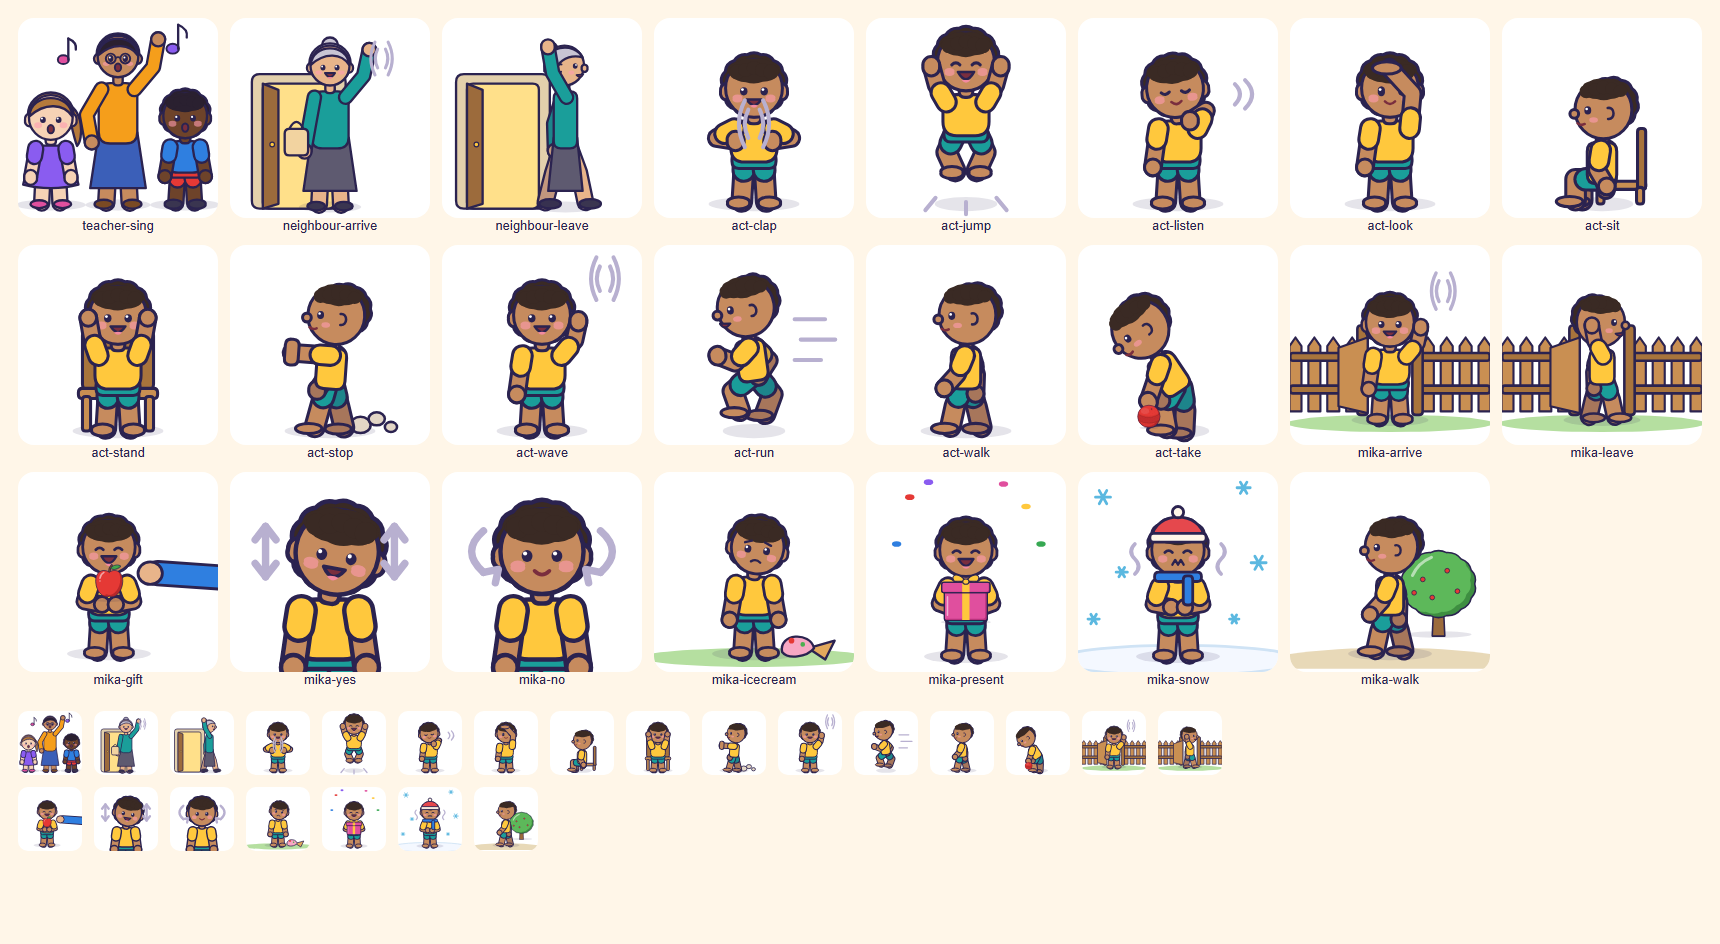
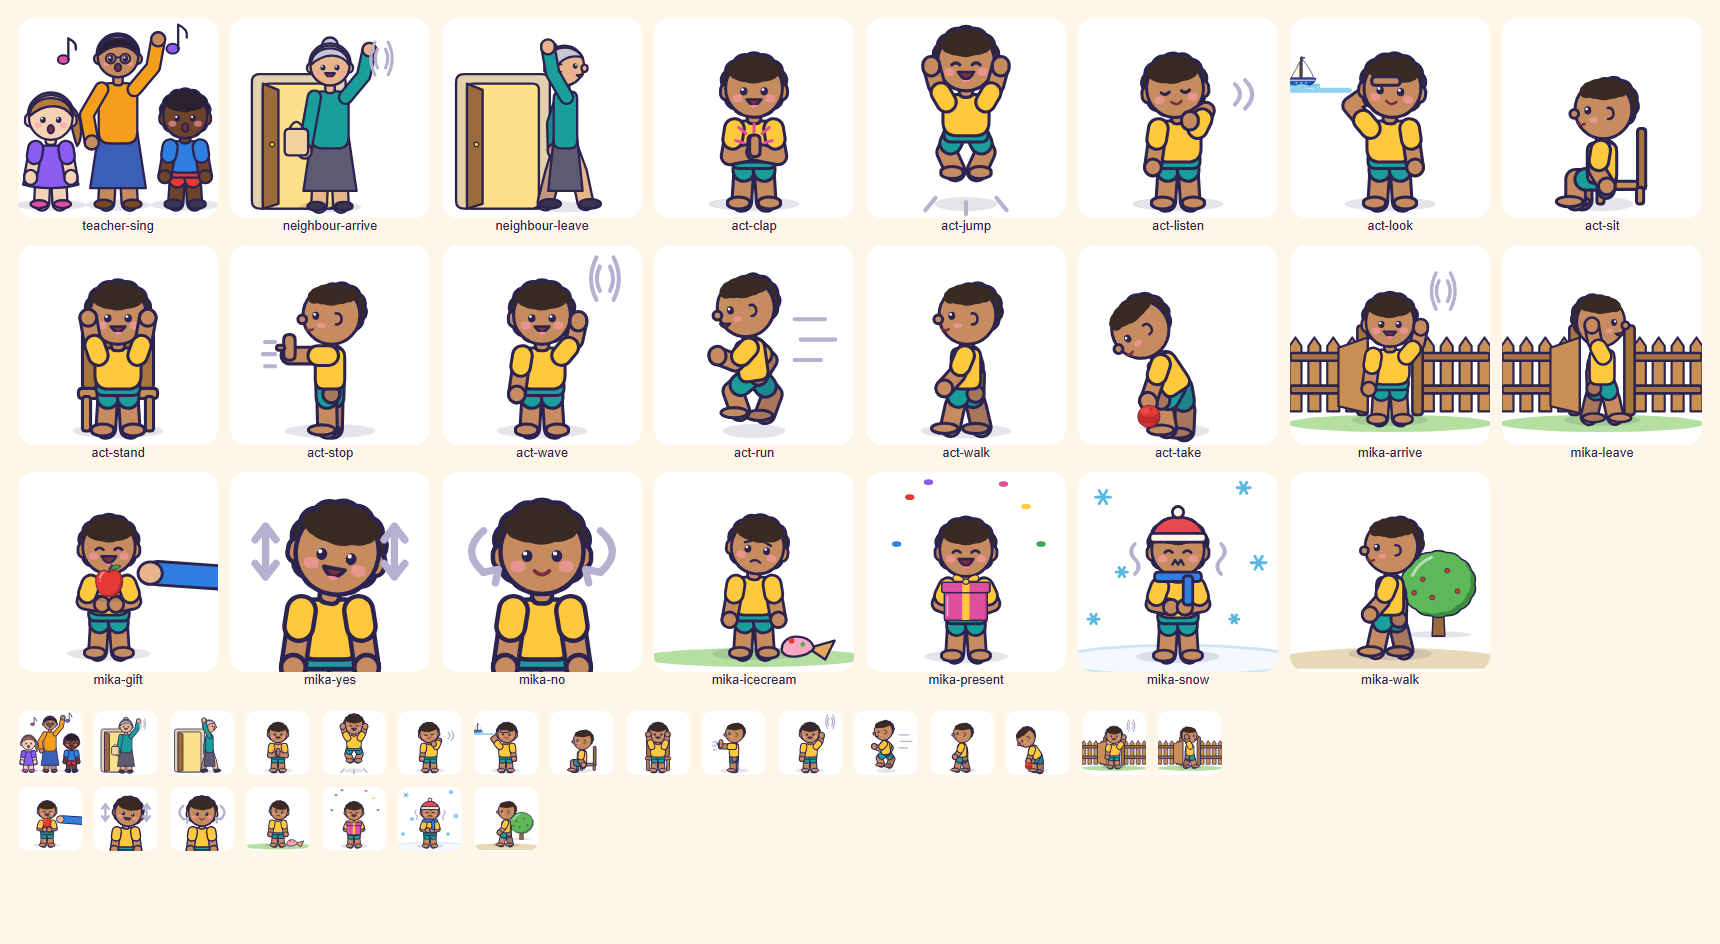
Languages people: act-clap (two open palms meeting in front of the chest, clap marks, the face clear), act-look (a hand flat as a visor over the brows, both eyes looking to a boat far off, the head turned), act-stop (standing still and upright, feet together, one arm straight out with the palm up) r

diff --git a/tools/make_language_people.py b/tools/make_language_people.py
@@ -389,7 +389,7 @@ def face(sp, r, hc, expr):
         out += [L('M %s %s Q %s %s %s %s' % (f(sx * ex - er * 1.1), f(ey), f(sx * ex), f(ey + er * 1.1 * (1 if expr == 'closed' else -1)),
                                              f(sx * ex + er * 1.1), f(ey)), INK, 3) for sx in (-1, 1)]
     else:
-        lx = {'look': er * 0.45, 'sing': 0}.get(expr, 0)
+        lx = {'look': er * 0.45, 'lookleft': -er * 0.5, 'sing': 0}.get(expr, 0)
         for sx in (-1, 1):
             out.append(E(sx * ex + lx, ey, er, er * 1.15, INK, 0))
             out.append('<circle cx="%s" cy="%s" r="%s" fill="%s"/>' % (f(sx * ex + lx - er * 0.35), f(ey - er * 0.4), f(er * 0.38), WHITE))
@@ -410,7 +410,7 @@ def face(sp, r, hc, expr):
 
 
 def posed(sp, view='front', arms=((8, 0), (8, 0)), legs=((3, 0), (3, 0)), lift=0, expr='smile', tilt=0, lean=0, flat=None,
-          props_back=(), props_front=(), reach=None, visor=None):
+          props_back=(), props_front=(), reach=None, visor=None, behind=(), palms=False):
     """A person in a pose. arms/legs: (shoulder or hip angle, elbow or knee bend) for (left, right) in the front view or
     (far, near) in the side view; lift raises the body (a jump); lean tilts the body forward (side view)."""
     H, r, hc, body, sh, hip, tw, lw, aw, arm = ch.geometry(sp)
@@ -449,7 +449,9 @@ def posed(sp, view='front', arms=((8, 0), (8, 0)), legs=((3, 0), (3, 0)), lift=0
     def draw_arm(i, dim):
         (a1, a2), (x0, y0), s = arms[i], shoulders[i], sides[i]
         k = (reach or {}).get(i, 1.0)
-        pts = chain(x0, y0, [(ua * k, a1), (fa * k, a2)], s, view)
+        ku, kf = k if isinstance(k, tuple) else (k, k)
+        k = ku
+        pts = chain(x0, y0, [(ua * ku, a1), (fa * kf, a2)], s, view)
         long_sleeve = sp.get('adult') and not sp.get('vest')
         o = limb(pts, dimc(top if long_sleeve else skin, dim), aw)
         if not long_sleeve:
@@ -457,16 +459,21 @@ def posed(sp, view='front', arms=((8, 0), (8, 0)), legs=((3, 0), (3, 0)), lift=0
             mid = (pts[0][0] + (pts[1][0] - pts[0][0]) * t, pts[0][1] + (pts[1][1] - pts[0][1]) * t)
             o += limb([pts[0], mid], dimc(top, dim), aw + 3)
         hx, hy = pts[-1]
-        if visor is not None and visor == i:
-            o.append(E(hx - aw * 0.2, hy, aw * 1.05, aw * 0.45, skin))
-        elif flat is not None and flat == i:
-            o.append(RR(hx - aw * 0.5, hy - aw * 1.0, aw, aw * 1.9, aw * 0.45, skin))
+        hd = []
+        if visor is not None and visor == i:     # a hand held flat over the brow, fingers pointing across
+            hd.append(RR((hx - aw * 1.05) if view == 'front' else hx - aw * 2.0, hy - aw * 0.32, aw * 2.1, aw * 0.64, aw * 0.3, skin))
+        elif flat is not None and flat == i:      # a palm held up, fingers up (stop)
+            hd.append(RR(hx - aw * 0.42, hy - aw * 1.55, aw * 0.84, aw * 1.9, aw * 0.4, skin))
+            hd.append(RR(hx - aw * 0.95, hy - aw * 0.75, aw * 0.6, aw * 0.36, aw * 0.18, skin))
+        elif palms:                               # an open palm seen from the side, fingers up (clap)
+            hd.append(RR(hx - aw * 0.38, hy - aw * 1.25, aw * 0.76, aw * 1.6, aw * 0.36, skin))
         else:
-            o.append(E(hx, hy, aw * 0.62, aw * 0.62, dimc(skin, dim)))
-        return o, (hx, hy)
+            hd.append(E(hx, hy, aw * 0.62, aw * 0.62, dimc(skin, dim)))
+        return o + hd, (hx, hy), o, hd
 
     hands = {}
     far_arm = draw_arm(0, True)[0] if view == 'side' else []
+    late = []
     if view == 'side':
         out += draw_leg(0, True)
     for i in ((0, 1) if view == 'front' else (1,)):
@@ -489,10 +496,17 @@ def posed(sp, view='front', arms=((8, 0), (8, 0)), legs=((3, 0), (3, 0)), lift=0
     else:
         w0 = tw if view == 'front' else tw * 0.64
         out.append(RR(-w0 / 2, sh, w0, hip - sh + body * 0.05, w0 * 0.3, top))
+    for i in behind:      # an arm that goes behind the head: the arm first, its hand after the head
+        _, hands[i], arm_only, hand_only = draw_arm(i, False)
+        out += arm_only
+        late += hand_only
     out += head_block(sp, expr, view, tilt)
     for i in ((0, 1) if view == 'front' else (1,)):
-        o, hands[i] = draw_arm(i, False)
+        if i in behind:
+            continue
+        o, hands[i], _, _ = draw_arm(i, False)
         out += o
+    out += late
     out.append('</g>')
     out += list(props_front)
     out.append('</g>')
@@ -543,7 +557,11 @@ def act(name):
     sp = MIKA
     H, r, hc, body, sh, hip, tw, lw, aw, arm = ch.geometry(sp)
     if name == 'clap':
-        parts = posed(sp, arms=((62, -142), (62, -142)), expr='happy') + motion(0, sh + aw * 0.2, 14)
+        parts = posed(sp, arms=((10, -110), (10, -110)), reach={0: (1.4, 1.25), 1: (1.4, 1.25)}, palms=True, expr='happy')
+        top_y = -51 - aw * 1.3
+        parts += [L('M 0 %s L 0 %s M -8 %s L -15 %s M 8 %s L 15 %s M -10 %s L -18 %s M 10 %s L 18 %s'
+                    % (f(top_y - 3), f(top_y - 10), f(top_y - 1), f(top_y - 7), f(top_y - 1), f(top_y - 7),
+                       f(top_y + 8), f(top_y + 6), f(top_y + 8), f(top_y + 6)), '#E04F9E', 3)]
     elif name == 'jump':
         parts = posed(sp, arms=((150, 15), (150, 15)), legs=((25, -50), (25, -50)), lift=26, expr='laugh')
         parts += [L('M -30 -6 L -40 6 M 0 -2 L 0 10 M 30 -6 L 40 6', '#B8B0D0', 4)]
@@ -551,7 +569,9 @@ def act(name):
         parts = posed(sp, arms=((8, 0), (155, 148)), expr='closed', tilt=-6)
         parts += [L('M 56 %s q 10 10 0 20 M 66 %s q 14 14 0 28' % (f(hc - 4), f(hc - 8)), '#B8B0D0', 4)]
     elif name == 'look':
-        parts = posed(sp, arms=((8, 0), (175, 48)), expr='look', tilt=0, reach={1: 1.78}, visor=1)
+        boat = '<g transform="translate(-108 -150) scale(0.16)">%s</g>' % prefixed(m.boat('blue').parts, 'bt')
+        sea = ['<path d="M -130 -112 L -40 -112" stroke="#8FD3F4" stroke-width="5"/>']
+        parts = sea + [boat] + posed(sp, arms=((140, 95), (8, 0)), expr='lookleft', tilt=5, reach={0: (1.5, 2.22)}, visor=0, behind=(0,))
     elif name == 'sit':
         seat = hip + (-hip) * 0.5
         parts = posed(sp, view='side', arms=((10, -20), (10, -40)), legs=((90, -90), (90, -90)), lift=-(-hip) * 0.5 + lw * 0.1,
@@ -559,7 +579,9 @@ def act(name):
     elif name == 'stand':
         parts = posed(sp, arms=((160, 10), (160, 10)), expr='happy', props_back=front_chair(-38, 70))
     elif name == 'stop':
-        parts = posed(sp, view='side', arms=((20, 10), (90, 0)), legs=((-14, 0), (16, 0)), flat=1, lean=4, props_back=dust(30, -6))
+        parts = posed(sp, view='side', arms=((4, 0), (90, 0)), legs=((1, 0), (-1, 0)), flat=1, expr='smile')
+        px = -aw * 0.1 - arm * 1.02
+        parts += [L('M %s %s l -10 0 M %s %s l -12 0 M %s %s l -10 0' % (f(px - 14), f(sh - 6), f(px - 14), f(sh + 6), f(px - 14), f(sh + 18)), '#B8B0D0', 4)]
     elif name == 'wave':
         parts = posed(sp, arms=((8, 0), (140, 28)), expr='happy') + motion(62, -150, 12)
     elif name == 'run':
